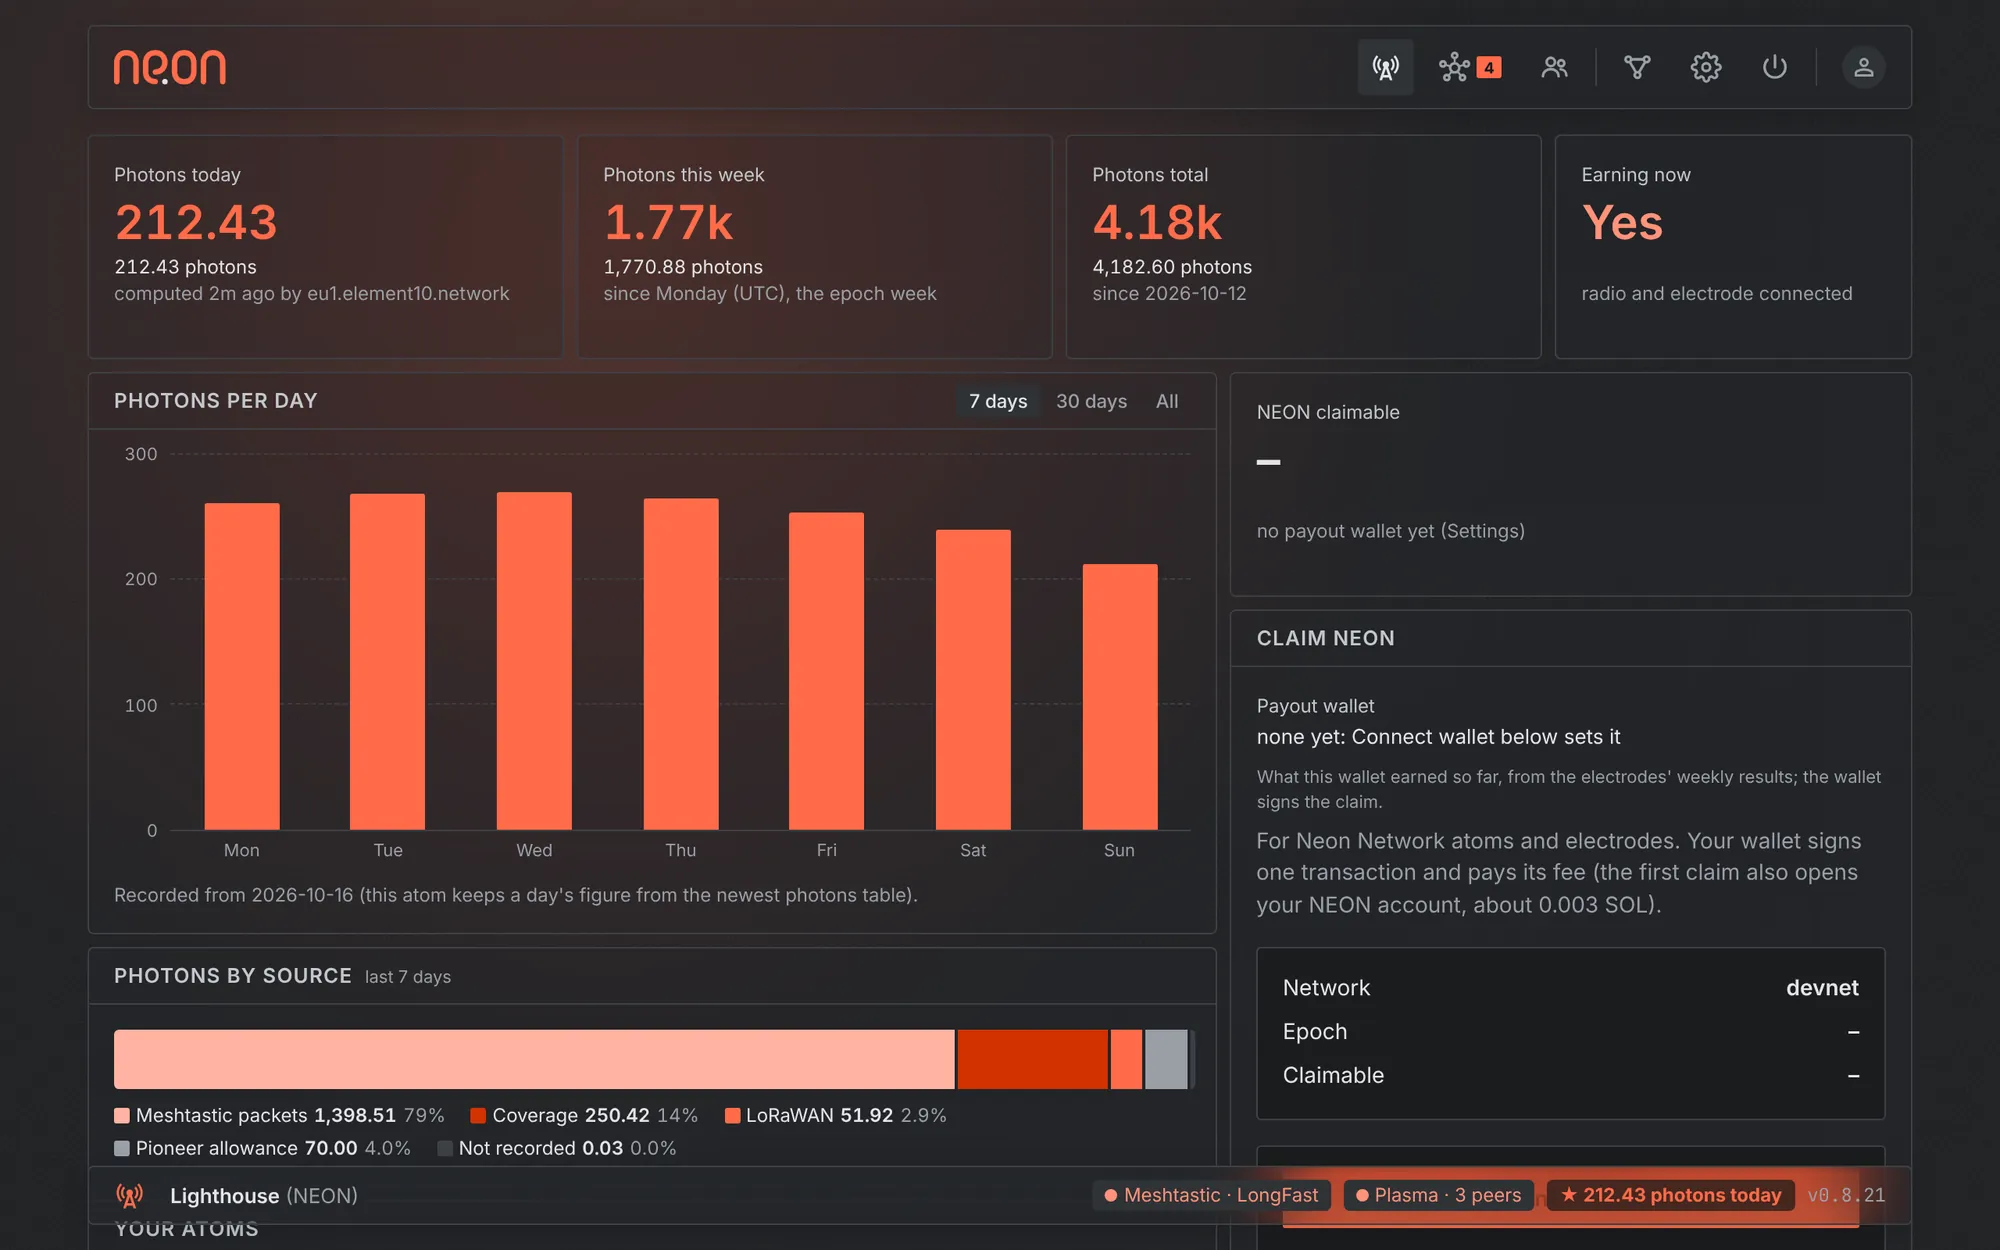
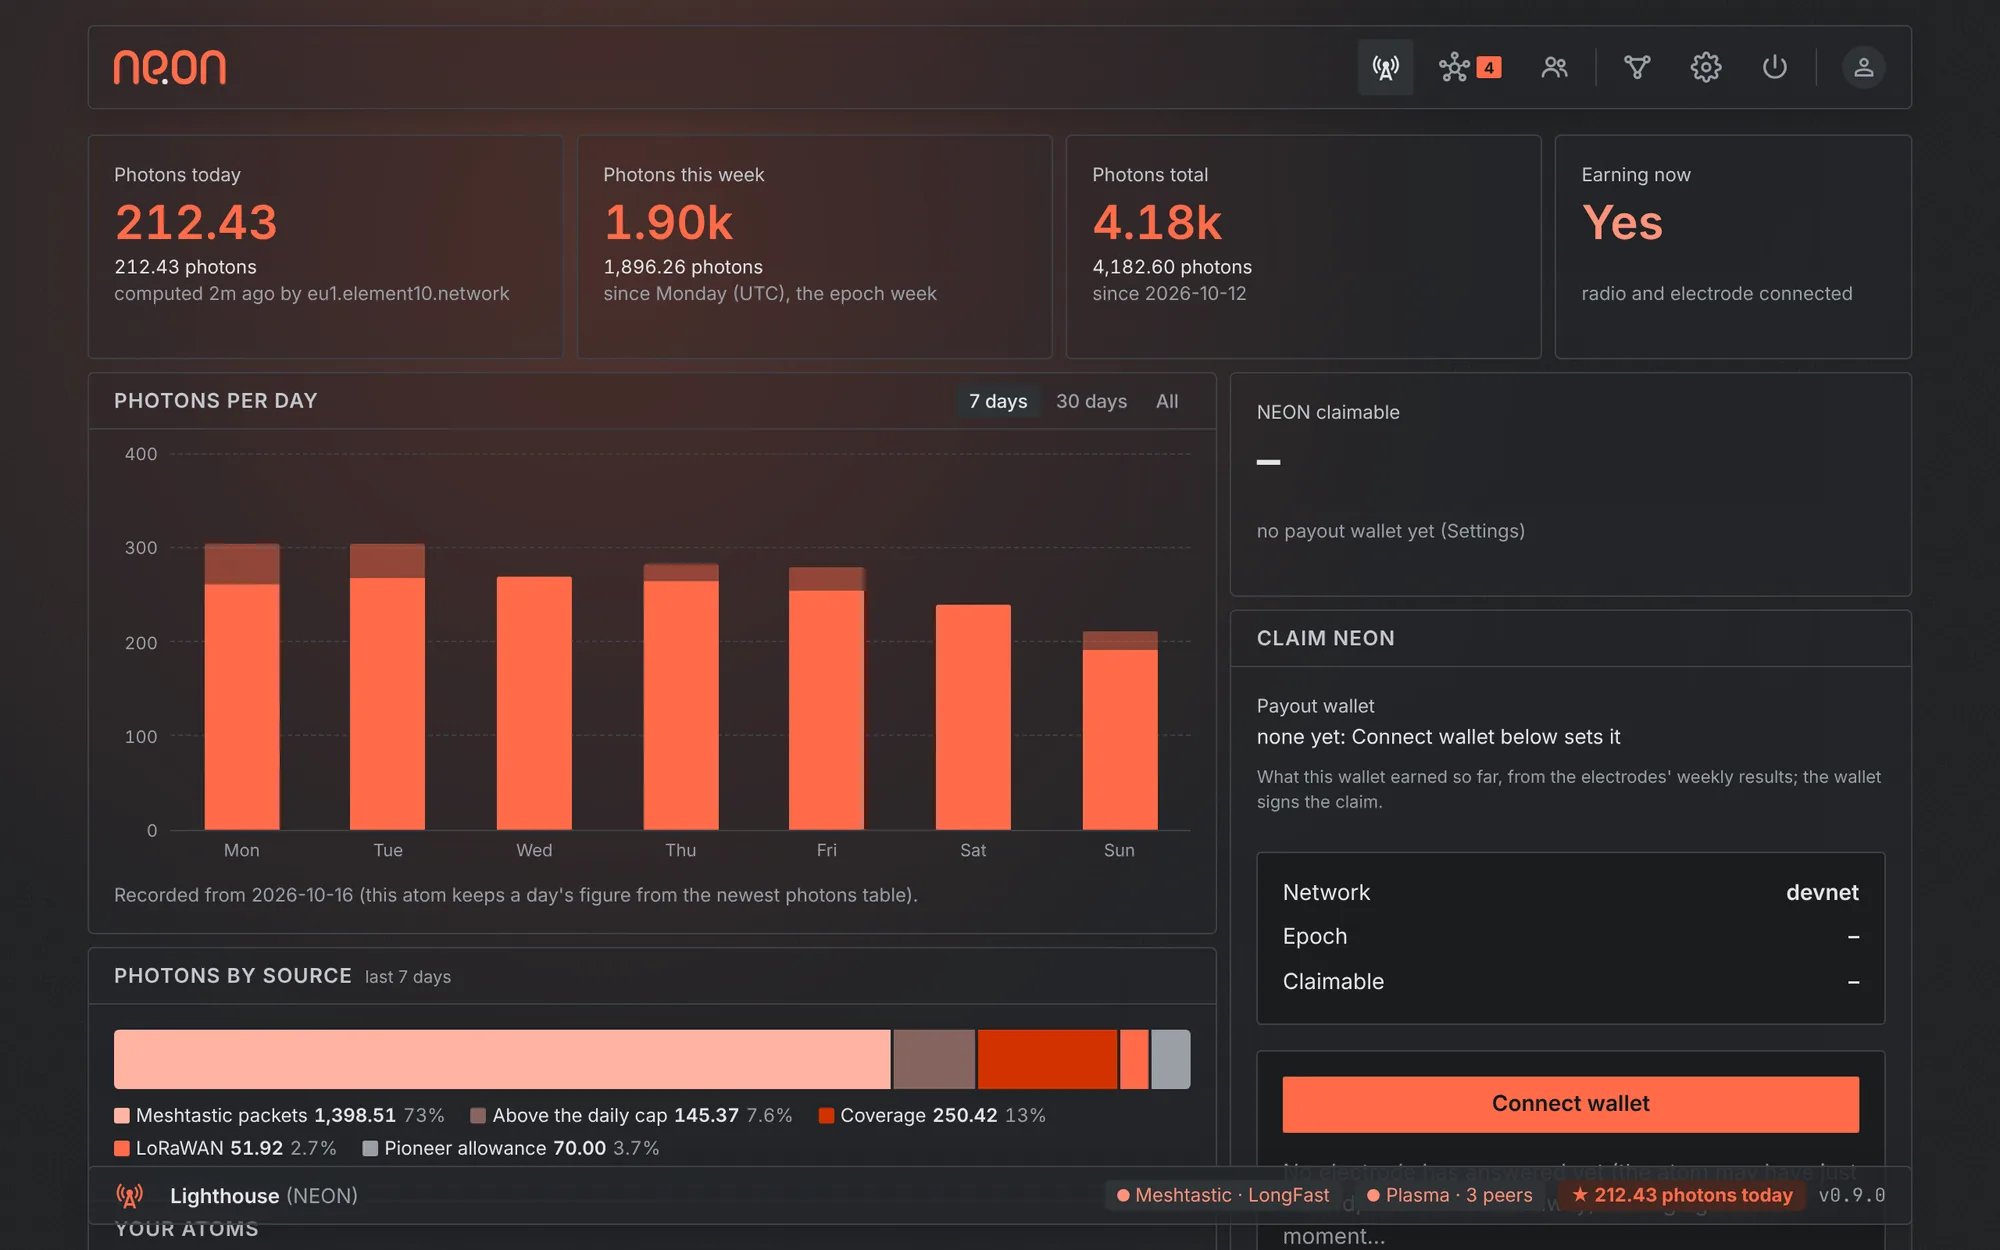
Neon 0.8.24

diff --git a/hardware/site/index.html b/hardware/site/index.html
@@ -93,7 +93,7 @@
   .note { padding: var(--m); color: var(--heading); border-top: 1px solid var(--line); font-size: 14px; }
   .note b { color: var(--text); }
   .sample { color: var(--muted); font-size: 12px; text-align: center; margin-top: var(--s); }
-  footer { color: var(--muted); font-size: 13px; text-align: center; padding: 0 var(--m) var(--s); }
+  footer { color: var(--heading); font-size: 13px; text-align: center; padding: 0 var(--m) var(--s); }
   footer a { color: inherit; }
   @media (max-width: 960px) {
     .hero, .split, .split.flip { grid-template-columns: minmax(0, 1fr); }
@@ -131,7 +131,7 @@
   <path d="M395.18,125.05c-5.52,0-10-4.48-10-10V45.02s-.13-6.99-3.57-13.53c-4.07-7.73-11.08-11.49-21.44-11.49s-17.37,3.76-21.44,11.49c-3.44,6.54-3.57,13.52-3.57,13.59v69.97c0,5.52-4.48,10-10,10s-10-4.48-10-10V45.02c0-1.14.15-11.42,5.43-21.98,7.43-14.86,21.49-23.04,39.58-23.04s32.16,8.18,39.58,23.04c5.28,10.56,5.43,20.84,5.43,21.98v70.03c0,5.52-4.48,10-10,10Z" class="logo-1"/>
   <circle cx="185.08" cy="115.05" r="10" class="logo-2"/>
 </svg>
-    <nav><a href="#features">Features</a><a href="#maps">Maps</a><a href="#photons">Photons</a><a href="#honest">Security</a><a href="#set-up">Set up</a><a href="https://neon.directory">Find your atom</a><a href="https://eu1.element10.network/explore">Explorer</a></nav>
+    <nav><a href="#features">Features</a><a href="#maps">Maps</a><a href="#photons">Photons</a><a href="#honest">Security</a><a href="#set-up">Set up</a><a href="https://neon.directory">Find your atom</a><a href="https://element10.network/explore">Explorer</a></nav>
   </header>
 
   <div class="card hero">
@@ -140,7 +140,7 @@
       <p>Neon turns a Helium IoT hotspot into an <b>atom</b>: a Meshtastic super-node for everyone around it that
         keeps serving Helium sensors, links up with the other atoms over the internet, and earns NEON for the
         coverage it proves.</p>
-      <div class="btns"><a class="btn" href="#set-up">Set one up</a><a class="btn secondary" href="https://eu1.element10.network/explore">See the network</a></div>
+      <div class="btns"><a class="btn" href="#set-up">Set one up</a><a class="btn secondary" href="https://element10.network/explore">See the network</a></div>
     </div>
     <figure style="margin:0"><picture><source srcset="img/atom-dark.webp" media="(prefers-color-scheme: dark)"><img class="shot" src="img/atom-light.webp" width="2000" height="1250" alt="An atom's panel: photons today, this week and in total, a chart of photons per day and where they came from"></picture>
       <figcaption class="sample">The atom's panel (sample data)</figcaption></figure>
@@ -213,7 +213,8 @@
       <li><h3>Coverage at the edge</h3><p>A packet only one operator heard earns a quarter photon, when others heard
         the same sender that day. Helium sensor uplinks two operators heard earn 0.1.</p></li>
       <li><h3>Limits per day</h3><p>An atom earns at most 100 photons from one sender, and from each other operator whose atoms heard
-        the same packets 500, then a tenth of the rest up to 1,000. So faking traffic with a friend pays little.</p></li>
+        the same packets 500 (from 30 November also a tenth of the rest, up to 1,000), and from Helium sensor uplinks
+        150 (10 from one device). So faking traffic with a friend pays little.</p></li>
       <li><h3>Weekly NEON</h3><p>Each week's NEON goes 70 % to atoms by their photons, 10 % to the electrodes that carried
         their reports, 20 % to the treasury. At most 1 billion NEON, the weekly amount halving every two years. NEON
         is never sold: it is only earned.</p></li>
@@ -227,7 +228,8 @@
       <li><h3>Signed, timed reports</h3><p>Every reception report is signed by the atom. The radio's microsecond counter must
         agree with its clock, and a report that arrives late does not count.</p></li>
       <li><h3>Positions proven by radio</h3><p>Atoms send short radio beacons that their neighbours check: a position counts once
-        atoms of two other networks hear it as its distance allows. Atoms on one roof count as one witness.</p></li>
+        an atom of another network hears it as its distance allows (from 30 November: atoms of two other networks, and
+        a silent neighbour counts against it). Atoms on one roof count as one witness.</p></li>
       <li><h3>Results on the record</h3><p>Electrodes sign their day logs, and fixed rules turn them into the weekly
         result: the same logs always give the same result, computed twice on separate machines. It goes on Solana and can
         be claimed after a challenge period, each operator with their own wallet.</p></li>

diff --git a/GUIDE.md b/GUIDE.md
@@ -27,8 +27,9 @@ your network, **Connect**.
 
 1. On a computer or phone on the same network, open **neon.directory**: it lists the atoms on your
    network. A new atom shows "Getting its certificate" for a few minutes, then **Open**.
-2. If the page first asks for a **setup code**: it is the setup password written in `neon.txt` on the SD
-   card (the same password opens the **Neon Setup** Wi-Fi), or the 8 digits the install script printed.
+2. If the page first asks for a **setup code**: it is the setup password you wrote in `neon.txt` on the SD
+   card, or, if you wrote none, the 8 digits in `neon-status.txt` on the card (open it on any computer); the
+   same code opens the **Neon Setup** Wi-Fi. An install with the script printed its 8 digits at the end.
    Ask whoever gave you the atom if you do not have it.
 3. The setup page is one page: **Network connection** (Cable or Wi-Fi), **your name** (the atom names
    itself), the **Meshtastic preset**, a **panel password**, then **Payout wallet** and **Position**. The preset must be the one the
